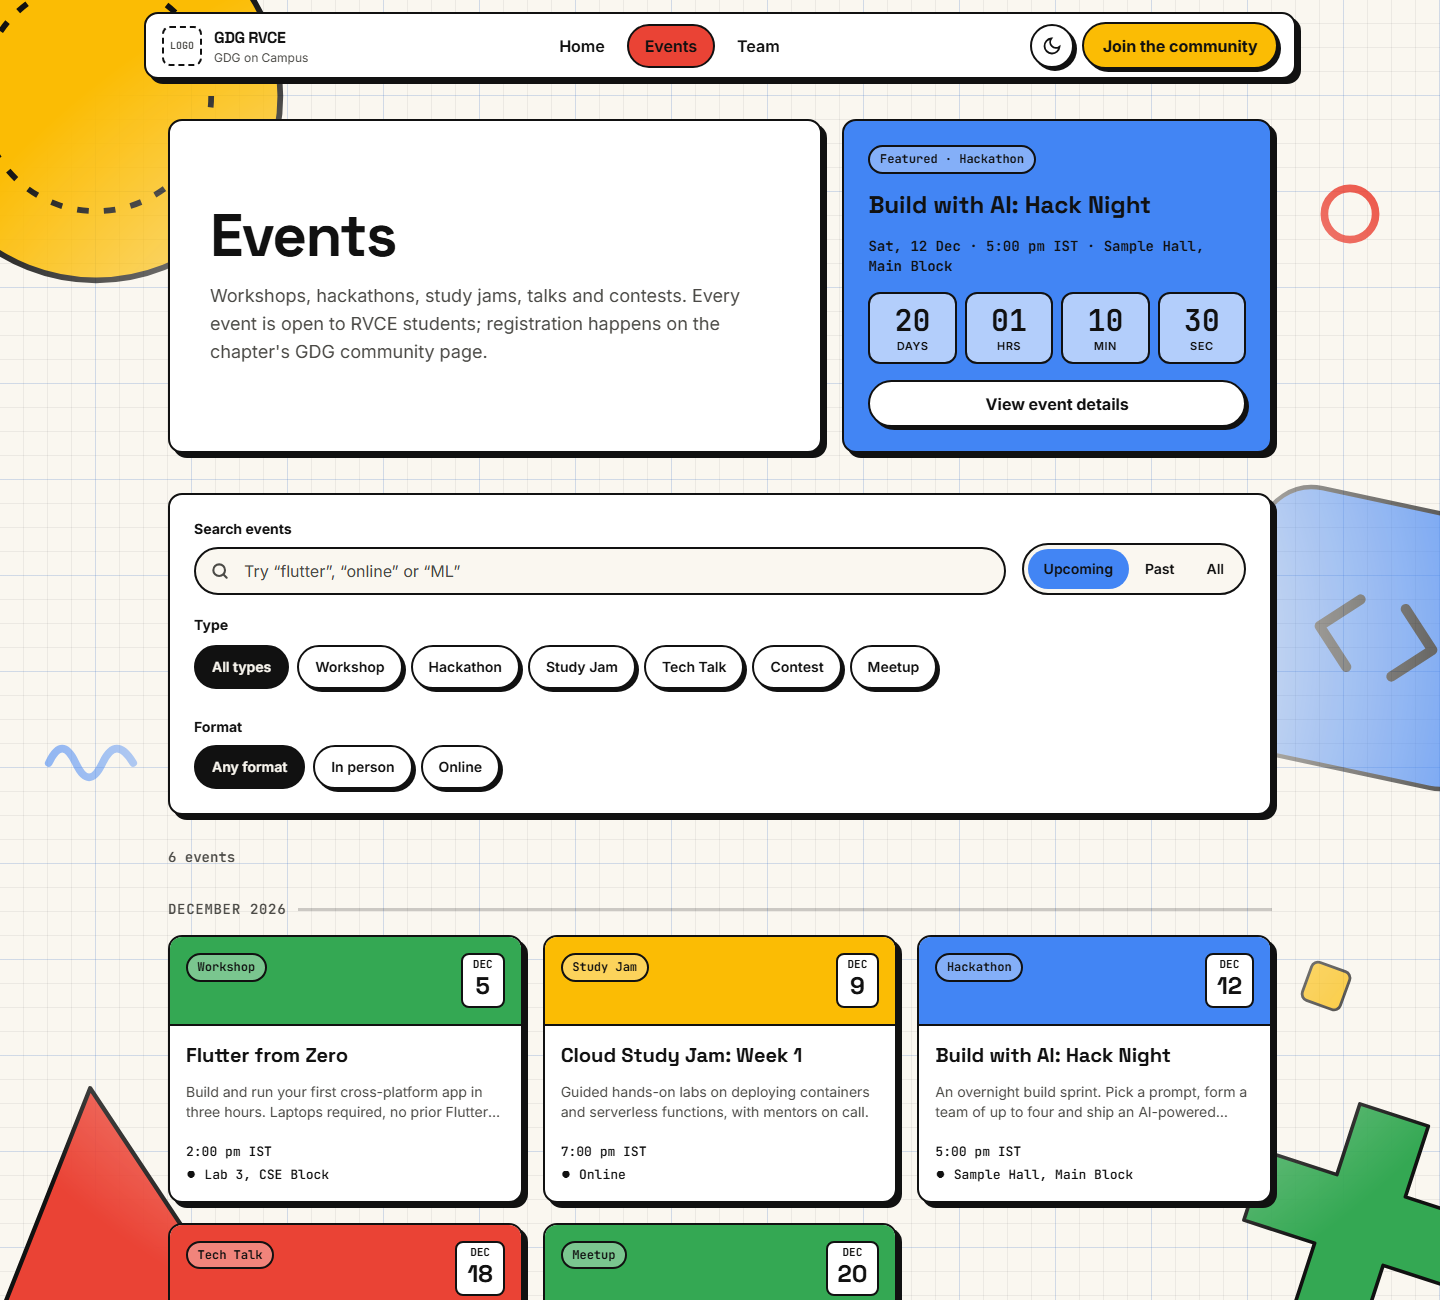
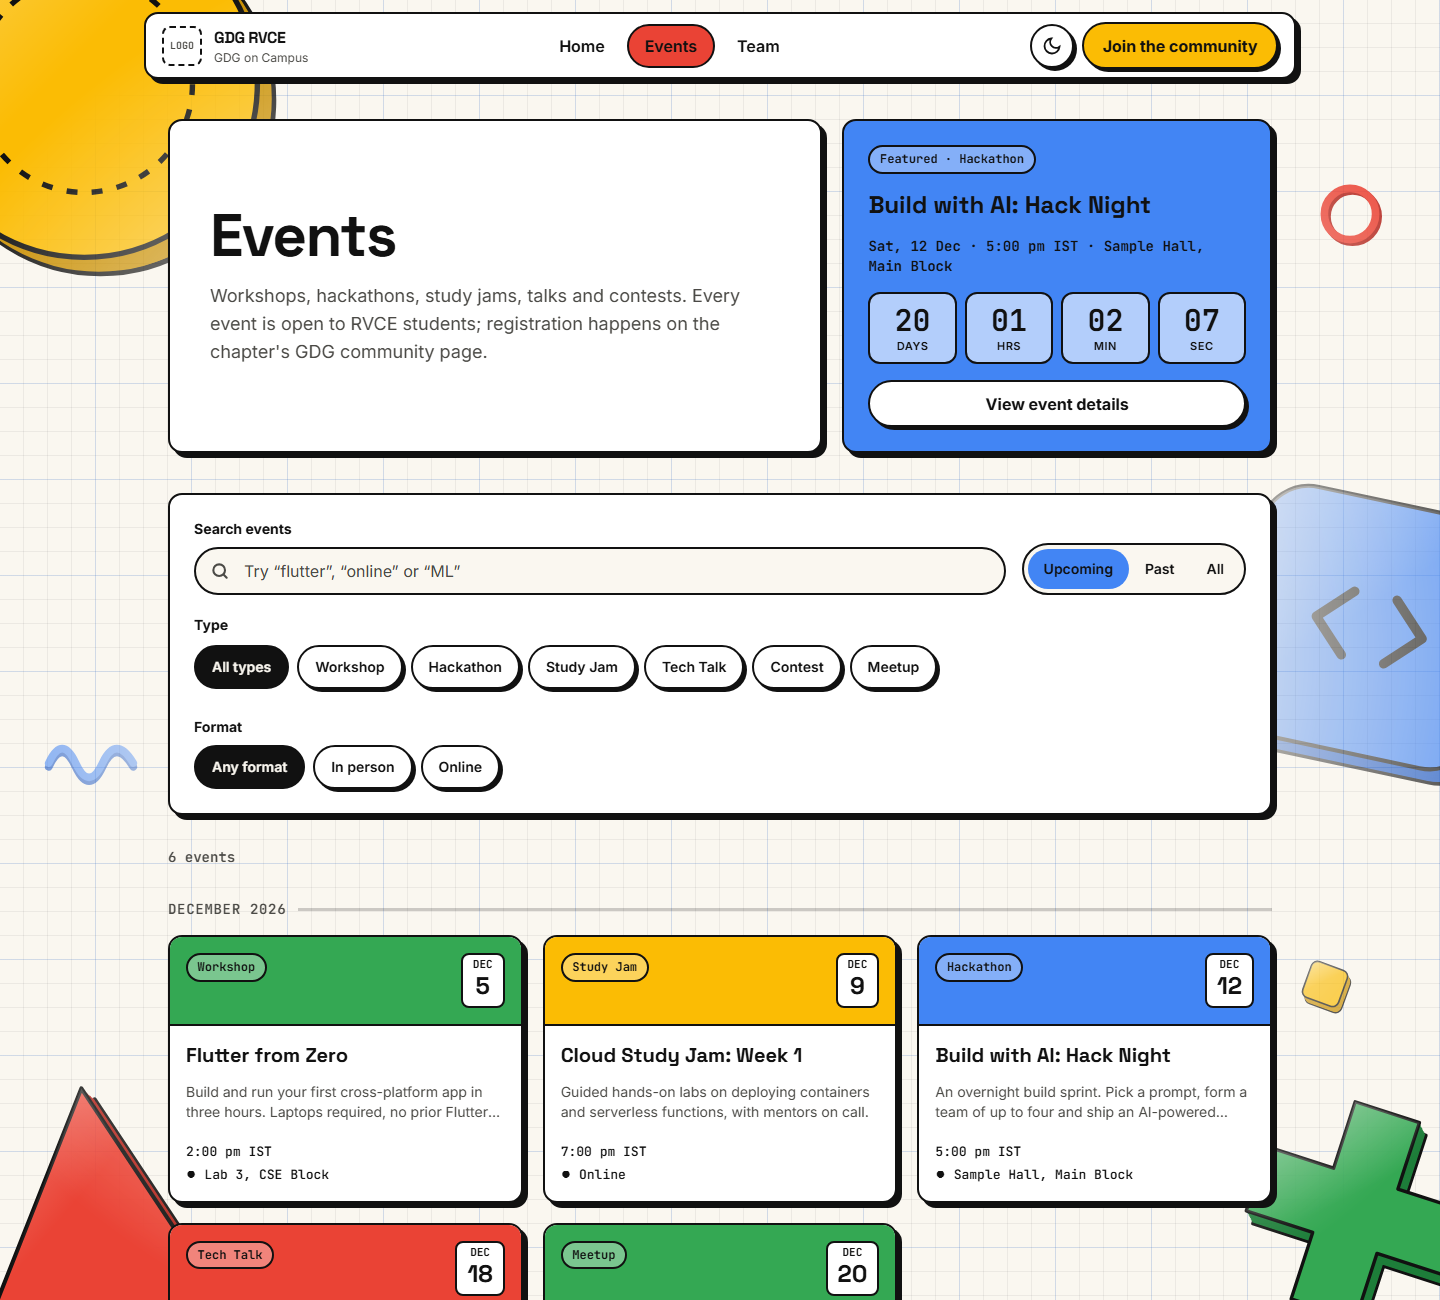
Give background shapes subtle 3D depth and pointer parallax
Shapes are drawn as extruded chips with a light sheen; on mouse devices they drift a few pixels at different depths. Static on touch and for reduced motion. Screenshots and design note updated.

diff --git a/src/components/BackgroundArt.tsx b/src/components/BackgroundArt.tsx
@@ -1,51 +1,150 @@
+"use client";
+
+import { useEffect, useRef } from "react";
+
 /**
- * Page backdrop: big outlined Google-colour shapes pinned to the viewport edges,
- * so they peek out from behind the tiles. Static (no scroll motion), pure SVG,
- * hidden from assistive tech. The graph-paper grid itself lives on <body> in globals.css.
+ * Page backdrop: big Google-colour shapes pinned to the viewport edges, peeking out
+ * from behind the tiles. Each shape is a thick "chip": a solid extruded side in a
+ * darker shade (lit from the top-left, matching the cards' hard shadows) plus a faint
+ * sheen on the face. On devices with a mouse, layers drift a few pixels with the
+ * pointer at different depths for a gentle parallax. Nothing moves on scroll, and
+ * reduced-motion users get the still version. The graph paper lives on <body>.
  */
-export function BackgroundArt() {
-  const stroke = "var(--line)";
-  const sw = 3;
+
+const EXTRUDE = 9; // depth of the side, in viewBox units
+const STROKE = "var(--line)";
+
+const SHADE = {
+  blue: ["var(--g-blue)", "#1a56c4"],
+  red: ["var(--g-red)", "#b3261e"],
+  yellow: ["var(--g-yellow)", "#c98f00"],
+  green: ["var(--g-green)", "#1e7e3a"],
+} as const;
+
+/** Draws a shape as a 3D chip: stacked side layers, an outlined back edge, then the lit face. */
+function Chip({ d, color, children }: { d: string; color: keyof typeof SHADE; children?: React.ReactNode }) {
+  const [face, side] = SHADE[color];
   return (
-    <div aria-hidden="true" className="bg-art pointer-events-none fixed inset-0 -z-10 overflow-hidden">
-      {/* Top-left: yellow circle */}
-      <svg className="absolute -left-24 -top-24 h-72 w-72 sm:h-96 sm:w-96" viewBox="0 0 200 200">
-        <circle cx="100" cy="100" r="96" fill="var(--g-yellow)" stroke={stroke} strokeWidth={sw} />
-        <circle cx="100" cy="100" r="60" fill="none" stroke={stroke} strokeWidth={sw} strokeDasharray="6 8" />
+    <>
+      {/* Back edge outline, then the solid side built from 1-unit steps */}
+      <path d={d} transform={`translate(${EXTRUDE} ${EXTRUDE})`} fill={side} stroke={STROKE} strokeWidth="3" strokeLinejoin="round" />
+      {Array.from({ length: EXTRUDE - 1 }, (_, i) => (
+        <path key={i} d={d} transform={`translate(${EXTRUDE - 1 - i} ${EXTRUDE - 1 - i})`} fill={side} />
+      ))}
+      {/* Face + sheen */}
+      <path d={d} fill={face} stroke={STROKE} strokeWidth="3" strokeLinejoin="round" />
+      <path d={d} fill="url(#bg-sheen)" />
+      {children}
+    </>
+  );
+}
+
+// Shape outlines in a 0..200 box (the viewBox leaves room for the extrusion)
+const CIRCLE = "M100 4 A96 96 0 1 1 99.99 4 Z";
+const SQUARE = "M42 6 H158 A36 36 0 0 1 194 42 V158 A36 36 0 0 1 158 194 H42 A36 36 0 0 1 6 158 V42 A36 36 0 0 1 42 6 Z";
+const TRIANGLE = "M100 8 L192 184 L8 184 Z";
+const PLUS = "M70 8 H130 V70 H192 V130 H130 V192 H70 V130 H8 V70 H70 Z";
+const SMALL_SQUARE = "M26 14 H74 A12 12 0 0 1 86 26 V74 A12 12 0 0 1 74 86 H26 A12 12 0 0 1 14 74 V26 A12 12 0 0 1 26 14 Z";
+
+export function BackgroundArt() {
+  const root = useRef<HTMLDivElement>(null);
+
+  // Gentle pointer parallax: each [data-depth] layer eases toward an offset
+  // proportional to its depth. Only for real pointers and full motion.
+  useEffect(() => {
+    const el = root.current;
+    if (!el) return;
+    const ok = matchMedia("(hover: hover) and (pointer: fine)").matches && !matchMedia("(prefers-reduced-motion: reduce)").matches;
+    if (!ok) return;
+
+    const layers = [...el.querySelectorAll<HTMLElement>("[data-depth]")].map((node) => ({ node, depth: Number(node.dataset.depth) }));
+    const target = { x: 0, y: 0 };
+    const cur = { x: 0, y: 0 };
+    let raf = 0;
+
+    const tick = () => {
+      cur.x += (target.x - cur.x) * 0.06;
+      cur.y += (target.y - cur.y) * 0.06;
+      for (const { node, depth } of layers) {
+        node.style.transform = `translate3d(${(cur.x * depth * 10).toFixed(2)}px, ${(cur.y * depth * 10).toFixed(2)}px, 0)`;
+      }
+      raf = Math.abs(target.x - cur.x) + Math.abs(target.y - cur.y) > 0.001 ? requestAnimationFrame(tick) : 0;
+    };
+    const onMove = (e: PointerEvent) => {
+      target.x = (e.clientX / innerWidth - 0.5) * 2;
+      target.y = (e.clientY / innerHeight - 0.5) * 2;
+      if (!raf) raf = requestAnimationFrame(tick);
+    };
+    addEventListener("pointermove", onMove, { passive: true });
+    return () => {
+      removeEventListener("pointermove", onMove);
+      cancelAnimationFrame(raf);
+    };
+  }, []);
+
+  const vb = `0 0 ${200 + EXTRUDE + 4} ${200 + EXTRUDE + 4}`;
+
+  return (
+    <div ref={root} aria-hidden="true" className="bg-art pointer-events-none fixed inset-0 -z-10 overflow-hidden">
+      <svg width="0" height="0" className="absolute">
+        <defs>
+          <linearGradient id="bg-sheen" x1="0" y1="0" x2="1" y2="1">
+            <stop offset="0" stopColor="#fff" stopOpacity="0.38" />
+            <stop offset="0.45" stopColor="#fff" stopOpacity="0" />
+          </linearGradient>
+        </defs>
       </svg>
 
-      {/* Right edge: blue rounded square, tilted */}
-      <svg className="absolute -right-20 top-[38%] hidden h-56 w-56 rotate-12 md:block md:h-72 md:w-72" viewBox="0 0 200 200">
-        <rect x="6" y="6" width="188" height="188" rx="36" fill="var(--g-blue)" stroke={stroke} strokeWidth={sw} />
-        <path d="M60 100 L84 76 M60 100 L84 124 M140 100 L116 76 M140 100 L116 124" stroke={stroke} strokeWidth="7" strokeLinecap="round" />
-      </svg>
+      {/* Top-left: yellow disc */}
+      <div data-depth="1" className="absolute -left-24 -top-24 h-72 w-72 will-change-transform sm:h-96 sm:w-96">
+        <svg className="h-full w-full" viewBox={vb}>
+          <Chip d={CIRCLE} color="yellow">
+            <circle cx="100" cy="100" r="60" fill="none" stroke={STROKE} strokeWidth="3" strokeDasharray="6 8" />
+          </Chip>
+        </svg>
+      </div>
+
+      {/* Right edge: blue tile with a code mark */}
+      <div data-depth="1.6" className="absolute -right-20 top-[38%] hidden h-56 w-56 will-change-transform md:block md:h-72 md:w-72">
+        <svg className="h-full w-full rotate-12" viewBox={vb}>
+          <Chip d={SQUARE} color="blue">
+            <path d="M60 100 L84 76 M60 100 L84 124 M140 100 L116 76 M140 100 L116 124" stroke={STROKE} strokeWidth="7" strokeLinecap="round" />
+          </Chip>
+        </svg>
+      </div>
 
       {/* Bottom-left: red triangle */}
-      <svg className="absolute -bottom-28 -left-24 h-56 w-56 -rotate-6 md:-bottom-16 md:-left-10 md:h-72 md:w-72" viewBox="0 0 200 200">
-        <path d="M100 8 L192 184 L8 184 Z" fill="var(--g-red)" stroke={stroke} strokeWidth={sw} strokeLinejoin="round" />
-      </svg>
+      <div data-depth="1.3" className="absolute -bottom-28 -left-24 h-56 w-56 will-change-transform md:-bottom-16 md:-left-10 md:h-72 md:w-72">
+        <svg className="h-full w-full -rotate-6" viewBox={vb}>
+          <Chip d={TRIANGLE} color="red" />
+        </svg>
+      </div>
 
       {/* Bottom-right: green plus */}
-      <svg className="absolute -bottom-24 -right-24 h-48 w-48 rotate-[18deg] md:-bottom-10 md:-right-10 md:h-60 md:w-60" viewBox="0 0 200 200">
-        <path
-          d="M70 8 H130 V70 H192 V130 H130 V192 H70 V130 H8 V70 H70 Z"
-          fill="var(--g-green)"
-          stroke={stroke}
-          strokeWidth={sw}
-          strokeLinejoin="round"
-        />
-      </svg>
+      <div data-depth="0.8" className="absolute -bottom-24 -right-24 h-48 w-48 will-change-transform md:-bottom-10 md:-right-10 md:h-60 md:w-60">
+        <svg className="h-full w-full rotate-[18deg]" viewBox={vb}>
+          <Chip d={PLUS} color="green" />
+        </svg>
+      </div>
 
-      {/* Small accents in the wide-screen gutters */}
-      <svg className="absolute left-[3%] top-[55%] hidden h-24 w-24 xl:block" viewBox="0 0 100 100">
-        <path d="M6 50 Q 20 20 34 50 T 62 50 T 94 50" fill="none" stroke="var(--g-blue)" strokeWidth="8" strokeLinecap="round" />
-      </svg>
-      <svg className="absolute right-[4%] top-[14%] hidden h-16 w-16 xl:block" viewBox="0 0 100 100">
-        <circle cx="50" cy="50" r="40" fill="none" stroke="var(--g-red)" strokeWidth="12" />
-      </svg>
-      <svg className="absolute bottom-[22%] right-[6%] hidden h-14 w-14 xl:block" viewBox="0 0 100 100">
-        <rect x="14" y="14" width="72" height="72" rx="12" fill="var(--g-yellow)" stroke={stroke} strokeWidth="5" transform="rotate(20 50 50)" />
-      </svg>
+      {/* Small accents in the wide-screen gutters: closest layer, drift the most */}
+      <div data-depth="2.4" className="absolute left-[3%] top-[55%] hidden h-24 w-24 will-change-transform xl:block">
+        <svg className="h-full w-full overflow-visible" viewBox="0 0 100 100">
+          <path d="M6 54 Q 20 24 34 54 T 62 54 T 94 54" fill="none" stroke="#1a56c4" strokeWidth="8" strokeLinecap="round" />
+          <path d="M6 50 Q 20 20 34 50 T 62 50 T 94 50" fill="none" stroke="var(--g-blue)" strokeWidth="8" strokeLinecap="round" />
+        </svg>
+      </div>
+      <div data-depth="2" className="absolute right-[4%] top-[14%] hidden h-16 w-16 will-change-transform xl:block">
+        <svg className="h-full w-full overflow-visible" viewBox="0 0 100 100">
+          <circle cx="54" cy="54" r="40" fill="none" stroke="#b3261e" strokeWidth="12" />
+          <circle cx="50" cy="50" r="40" fill="none" stroke="var(--g-red)" strokeWidth="12" />
+        </svg>
+      </div>
+      <div data-depth="2.8" className="absolute bottom-[22%] right-[6%] hidden h-14 w-14 will-change-transform xl:block">
+        <svg className="h-full w-full rotate-[20deg] overflow-visible" viewBox="0 0 106 106">
+          <Chip d={SMALL_SQUARE} color="yellow" />
+        </svg>
+      </div>
     </div>
   );
 }

diff --git a/DESIGN_NOTE.md b/DESIGN_NOTE.md
@@ -35,6 +35,7 @@ All three are open source (SIL OFL) and loaded through `next/font`, so there is 
 
 - **Event pages are tickets:** a coloured main panel and a tear-off stub with a dashed perforation and punched notches. The stub holds what you need to attend: date, time, venue, "Register" and "Add to calendar".
 - **Team members are ID badges** with a lanyard slot and a generated geometric avatar, which avoids photos of real people.
+- **An engineering-notebook backdrop:** faint graph paper with large Google-colour shapes drawn as thick 3D chips (extruded side, light sheen) at the screen edges. On desktop they drift a few pixels with the mouse at different depths. They fade toward the centre so text stays readable, and they're static on touch devices and for reduced motion.
 - **Two optional touches from the brief:** a live event countdown and light/dark themes.
 - **Motion stays quiet:**
   - the hero enters once on load
